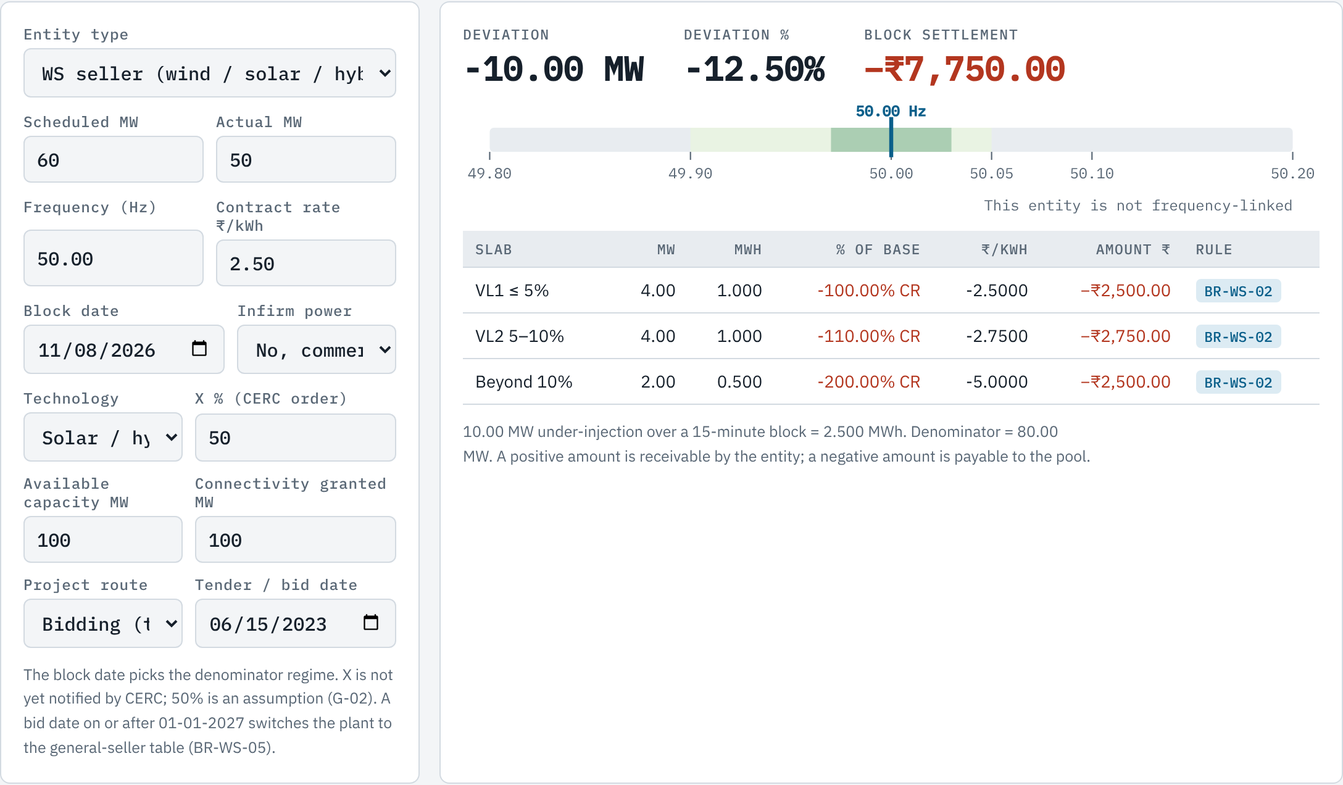
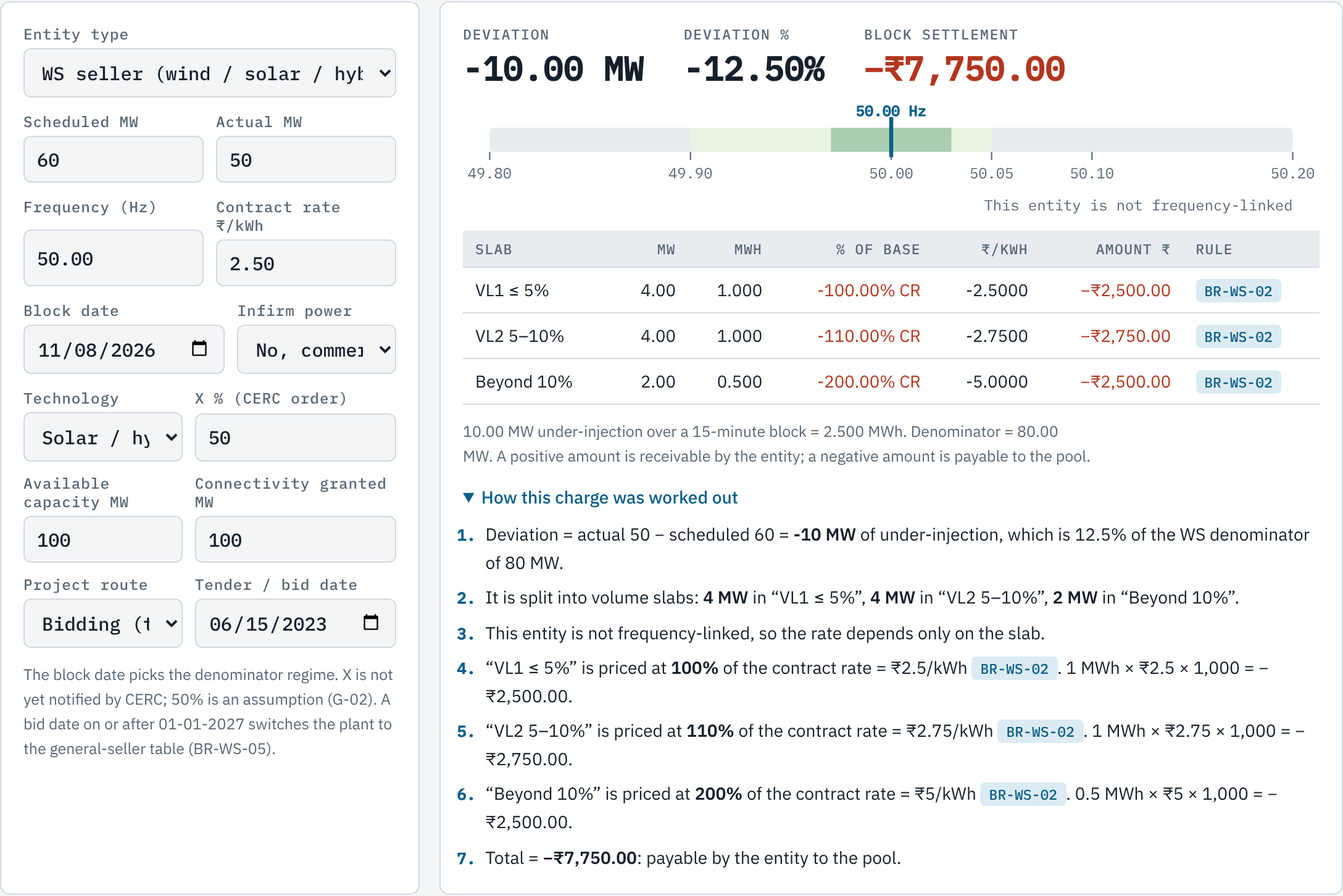
Audit and correct charts; add heatmap, penalty curve and walkthrough
Fixes found by auditing every chart against the regulation:
- General-seller caption gave wrong rates at 49.92 Hz (now 135.75%
  and 150%; 150%/200% apply below 49.90 Hz)
- Frequency steps were drawn 0.01 Hz late; they now change halfway
  between defined points, so the band edge lines up
- Infirm matrix 'seller rules' cell applied only to general sellers
- Parity chart now states it relies on assumption G-13
- Slab-bar segments now sit exactly on the axis ticks

New explanations:
- Cost heatmap of frequency against deviation size (seller and buyer)
- Penalty curve showing loss against a perfect forecast
- Plain-English walkthrough of each calculator result
- tests/rates.test.js: 35 chart rate points checked against the
  regulation tables

Claude-Session: https://claude.ai/code/session_019ffqfbmXFv7PNpHuiTUzXU

diff --git a/index.html b/index.html
@@ -140,8 +140,8 @@ details.tableview table{margin-top:10px}
 @media (max-width:520px){.srow{grid-template-columns:1fr;gap:4px}}
 .slabel{font-size:.82rem;line-height:1.3}
 .slabel small{display:block;color:var(--muted);font:400 .72rem var(--f-mono)}
-.strack{position:relative;display:flex;gap:2px;height:30px}
-.seg{display:flex;align-items:center;justify-content:center;font:600 .72rem var(--f-mono);border-radius:2px;min-width:0;overflow:hidden;white-space:nowrap}
+.strack{position:relative;display:block;height:30px}
+.seg{position:absolute;top:0;bottom:0;display:flex;align-items:center;justify-content:center;font:600 .72rem var(--f-mono);border-radius:2px;min-width:0;overflow:hidden;white-space:nowrap}
 .seg:first-child{border-radius:4px 2px 2px 4px}.seg:last-child{border-radius:2px 4px 4px 2px}
 .seg.q0{background:transparent;border:1px dashed var(--line);color:var(--muted)}
 .seg.q1{background:var(--q1);color:var(--q-lo)}.seg.q2{background:var(--q2);color:var(--q-lo)}.seg.q3{background:var(--q3);color:var(--q-lo)}
@@ -197,6 +197,21 @@ table.matrix th{text-transform:none;letter-spacing:0;font-size:.78rem}
 .field.check input{width:auto}
 #oNotes{margin:0;padding-left:1.1em;display:grid;gap:4px;font-size:.84rem}
 #oNotes:empty{display:none}
+
+
+/* ---- heatmap, walkthrough ---- */
+.seg-ctl{display:flex;flex-wrap:wrap;gap:6px}
+.seg-ctl button{background:transparent;color:var(--accent);border:1px solid var(--line);font-weight:500}
+.seg-ctl button.on{background:var(--accent-soft);border-color:var(--accent);color:var(--ink)}
+#vHeat svg{min-width:520px}
+#vPenalty svg{min-width:560px}
+.hm-legend{display:flex;align-items:center;gap:10px;font:500 .74rem var(--f-mono);color:var(--muted)}
+.hm-legend{flex-wrap:wrap}
+.hm-key{display:inline-flex;align-items:center;gap:5px}
+.hm-key i{width:14px;height:12px;border-radius:2px;display:inline-block;border:1px solid var(--line)}
+details.walk summary{cursor:pointer;color:var(--accent);font-weight:500;font-size:.88rem}
+ol.steps{margin:8px 0 0;padding-left:1.3em;display:grid;gap:6px;font-size:.88rem}
+ol.steps li::marker{font:600 .8rem var(--f-mono);color:var(--accent)}
 
 @media (prefers-reduced-motion:reduce){*{scroll-behavior:auto!important;transition:none!important}}
 </style>
@@ -304,7 +319,7 @@ table.matrix th{text-transform:none;letter-spacing:0;font-size:.78rem}
       <p id="pOut"></p>
     </div>
     <div class="panel"><h3>What parity does to the same shortfall</h3>
-      <p class="hint">A solar plant, 100 MW available, scheduled at 60 MW, generating 50 MW. The line shows the average rate on the 10 MW shortfall as a % of contract rate, under each table.</p>
+      <p class="hint">A solar plant, 100 MW available, scheduled at 60 MW, generating 50 MW. The line shows the average rate on the 10 MW shortfall as a % of contract rate, under each table. The parity line uses working assumption G-13: limit min(10% of schedule, 100 MW), priced at contract rate.</p>
       <div class="fchart" id="vParity"></div>
     </div>
   </div>
@@ -352,12 +367,18 @@ table.matrix th{text-transform:none;letter-spacing:0;font-size:.78rem}
     <div class="panel"><h3>Over-injection <span class="hint">seller receives, % of RR</span></h3><div class="fchart" id="vGsOver"></div></div>
     <div class="panel"><h3>Under-injection <span class="hint">seller pays, % of RR</span></h3><div class="fchart" id="vGsUnder"></div></div>
   </div>
-  <p class="hint">Read it like this: a generator that falls short at 49.92 Hz, when the grid needs power most, pays up to 150% of RR inside the limit and 200% beyond it. Extra power at 50.10 Hz or above is worse than worthless: the seller pays 10% of RR for it.</p>
+  <p class="hint">Read it like this: a generator that falls short at 49.92 Hz, when the grid needs power, pays 135.75% of RR inside the limit and 150% beyond it. Below 49.90 Hz that rises to 150% and 200%. Extra power at 50.10 Hz or above is worse than worthless: the seller pays 10% of RR for it.</p>
 
   <div class="sub-head"><h3>Buyer: rate against frequency, by volume slab</h3><p class="hint">VL1, VL2 and VL3 are the volume slabs. Their MW sizes depend on the buyer category (chart further down).</p></div>
   <div class="grid2">
     <div class="panel"><h3>Under-drawal <span class="hint">buyer receives, % of NR</span></h3><div class="fchart" id="vByUnder"></div></div>
     <div class="panel"><h3>Over-drawal <span class="hint">buyer pays, % of NR</span></h3><div class="fchart" id="vByOver"></div></div>
+  </div>
+  <div class="panel"><h3>Both rules at once: volume and frequency together <span class="tag">Reg 8(1), 8(7)</span></h3>
+    <p class="hint">Each cell is the average rate on the whole deviation, combining the volume slabs and the frequency rule. Darker cells cost more. Hover or tap a cell for the numbers. The dashed lines are the slab limits; the outlined columns are the frequency band.</p>
+    <div class="seg-ctl" role="group" aria-label="Choose entity"><button type="button" class="on" data-hm="gs" aria-pressed="true">General seller under-injecting (schedule 500 MW)</button><button type="button" data-hm="buyer" aria-pressed="false">Regular buyer over-drawing (schedule 1,500 MW)</button></div>
+    <div class="fchart" id="vHeat"></div>
+    <div class="hm-legend"></div>
   </div>
   <details class="tableview"><summary>Show the four frequency charts as a table</summary><div class="scroll"><table id="vFreqTable"></table></div></details>
 
@@ -367,6 +388,12 @@ table.matrix th{text-transform:none;letter-spacing:0;font-size:.78rem}
     <div class="panel"><h3>Over-injection <span class="hint">seller receives</span></h3><div class="slabs" id="vSlabOver"></div></div>
   </div>
   <p class="hint">RoR slabs are also capped at 150 MW and 200 MW, whichever is lower. The MSW slab has no MW cap (gap G-09). Under-injection beyond the last WS slab costs 200% of CR, while over-injection beyond it earns nothing.</p>
+
+  <div class="panel"><h3>The penalty curve: what a forecast error really costs <span class="tag">Reg 8(4), 8(4A)</span></h3>
+    <p class="hint">A 100 MW solar plant scheduled at 60 MW, contract rate ₹2.50/kWh. The plant is paid for its schedule, so the fair test is the loss against a perfect forecast: revenue it would have earned had it scheduled exactly what it generated. Left of zero it generated less than scheduled; right of zero, more.</p>
+    <div class="fchart" id="vPenalty"></div>
+    <p class="hint">Under the WS table the loss is the same on both sides: nothing inside VL1, 10% of the energy's value in VL2, and its full value beyond. Under parity (bids dated 2027 onwards, assumption G-13) the shape depends on frequency. At 50.00 Hz a shortfall costs nothing extra, but surplus beyond the limit is lost. At 49.85 Hz a shortfall becomes the expensive side. A parity plant should schedule more cautiously when low frequency is expected, such as the evening peak.</p>
+  </div>
 
   <div class="grid2">
     <div class="panel"><h3>Why 01-04-2026 matters for WS sellers <span class="tag">BR-DV-02 · DV-03</span></h3>
@@ -458,6 +485,7 @@ table.matrix th{text-transform:none;letter-spacing:0;font-size:.78rem}
       <div class="scroll"><table><thead><tr><th>Slab</th><th class="r">MW</th><th class="r">MWh</th><th class="r">% of base</th><th class="r">₹/kWh</th><th class="r">Amount ₹</th><th>Rule</th></tr></thead><tbody id="oSlabs"></tbody></table></div>
       <p class="hint" id="oNote"></p>
       <ul id="oNotes"></ul>
+      <details class="walk" open><summary>How this charge was worked out</summary><ol id="oSteps" class="steps"></ol></details>
     </div>
   </div>
   <div class="grid2">
@@ -971,6 +999,29 @@ function renderCalc() {
   const qty = i.infirm === 'pretrial' ? Math.max(0, i.A) : Math.abs(r.dev);
   $('oNote').textContent = `${qty.toFixed(2)} MW ${unitWord} over a 15-minute block = ${(qty * 0.25).toFixed(3)} MWh.` + (i.type === 'ws' && r.pricedAs === 'ws' ? ` Denominator = ${r.denom.toFixed(2)} MW.` : '') + ' A positive amount is receivable by the entity; a negative amount is payable to the pool.';
   $('oNotes').innerHTML = (r.notes || []).map(n => `<li>${esc(n)}</li>`).join('');
+  $('oSteps').innerHTML = explain(i, r).map(s => `<li>${s}</li>`).join('');
+}
+function explain(i, r) {
+  const n2 = v => v.toLocaleString('en-IN', { maximumFractionDigits: 2 });
+  const basisName = { RR: 'reference rate', CR: 'contract rate', NR: 'normal rate', ECR: 'energy charge rate' }[r.basis];
+  if (i.infirm === 'pretrial') {
+    const s = r.slabs[0];
+    return [`The unit is still before its trial run, so this is <b>infirm power</b>, not a deviation. It injected ${n2(Math.max(0, i.A))} MW for 15 minutes = <b>${n2(s.mwh)} MWh</b>.`,
+      `The rule for this plant type on ${i.date.split('-').reverse().join('-')} is <span class="tag">${s.rule}</span>: ${s.unit ? `paid at NR (₹${n2(i.rate)}/kWh), capped, so <b>₹${s.unit.toFixed(2)}/kWh</b>` : '<b>zero</b>'}.`,
+      `${n2(s.mwh)} MWh × ₹${s.unit.toFixed(2)}/kWh × 1,000 = <b>${inr(r.total, 2)}</b>${r.total > 0 ? ', receivable by the plant' : ''}.`];
+  }
+  const buyer = i.type === 'buyer', over = r.dir === 'over';
+  const word = buyer ? (over ? 'over-drawal' : 'under-drawal') : (over ? 'over-injection' : 'under-injection');
+  const linked = ['gs', 'ess', 'buyer'].includes(r.pricedAs);
+  const steps = [];
+  const den = r.pricedAs === 'ws' ? `the WS denominator of ${n2(r.denom)} MW` : `the schedule of ${n2(i.S)} MW`;
+  steps.push(`Deviation = actual ${n2(i.A)} − scheduled ${n2(i.S)} = <b>${r.dev > 0 ? '+' : ''}${n2(r.dev)} MW</b> of ${word}` + (r.devPct != null && isFinite(r.devPct) ? `, which is ${n2(Math.abs(r.devPct))}% of ${den}.` : '.'));
+  const used = r.slabs.filter(s => s.mw > 0);
+  steps.push(used.length ? `It is split into volume slabs: ${used.map(s => `<b>${n2(s.mw)} MW</b> in “${esc(s.label)}”`).join(', ')}.` : 'There is no deviation, so nothing is charged.');
+  steps.push(linked ? `Frequency is <b>${i.f.toFixed(2)} Hz</b>, ${inBand(i.f) ? 'inside' : 'outside'} the 49.90–50.05 Hz band. For this entity it sets the rate in each slab.` : 'This entity is not frequency-linked, so the rate depends only on the slab.');
+  used.forEach(s => steps.push(`“${esc(s.label)}” is priced at <b>${n2(Math.abs(s.pct))}%</b> of the ${basisName} = ₹${n2(Math.abs(s.unit))}/kWh <span class="tag">${s.rule}</span>. ${n2(s.mwh)} MWh × ₹${n2(Math.abs(s.unit))} × 1,000 = ${inr(s.amt, 2)}.`));
+  if (used.length) steps.push(`Total = <b>${inr(r.total, 2)}</b>: ${r.total > 0 ? 'receivable by the entity from the pool' : r.total < 0 ? 'payable by the entity to the pool' : 'nothing changes hands'}.`);
+  return steps;
 }
 ['cType', 'cInf', 'cRoute', 'cPsp'].forEach(id => $(id).addEventListener('change', () => syncCalcUI(id === 'cType')));
 ['cS', 'cA', 'cF', 'cR', 'cDate', 'cTech', 'cAvc', 'cConn', 'cX', 'cKey', 'cKind', 'cCat'].forEach(id => $(id).addEventListener('input', renderCalc));
@@ -1118,7 +1169,8 @@ function freqChart(id, series) {
   s += `<text x="${L - 6}" y="${y(-12) + 4}" text-anchor="end" style="font-size:9px">pays</text>`;
   [49.80, 49.90, 50.00, 50.05, 50.10, 50.20].forEach(f => { s += `<line x1="${x(f)}" x2="${x(f)}" y1="${H - B}" y2="${H - B + 4}" style="stroke:var(--muted)"/><text x="${x(f)}" y="${H - B + 16}" text-anchor="middle">${f.toFixed(2)}</text>`; });
   s += `<text x="${(L + W - R) / 2}" y="${H - 2}" text-anchor="middle">Frequency (Hz)</text>`;
-  const path = d => d.map((v, i) => i ? `H${x(FX[i]).toFixed(1)}V${y(v).toFixed(1)}` : `M${x(FX[0]).toFixed(1)},${y(v).toFixed(1)}`).join('');
+  // Rates are defined at 0.01 Hz points, so each step changes halfway between two points.
+  const path = d => d.map((v, i) => i ? `H${((x(FX[i - 1]) + x(FX[i])) / 2).toFixed(1)}V${y(v).toFixed(1)}` : `M${x(FX[0]).toFixed(1)},${y(v).toFixed(1)}`).join('') + `H${x(FX[FX.length - 1]).toFixed(1)}`;
   data.forEach((d, k) => { const p = path(d); s += `<path d="${p}" style="fill:none;stroke:var(--surface);stroke-width:5;stroke-linejoin:round"/><path d="${p}" style="fill:none;stroke:${SER[k]};stroke-width:2;stroke-linejoin:round"/>`; });
   // direct labels at the right end, nudged apart
   const ends = data.map((d, k) => ({ k, y: y(d[d.length - 1]) })).sort((a, b) => a.y - b.y);
@@ -1172,7 +1224,7 @@ function qClass(v) { const a = Math.abs(v); return a === 0 ? 'q0' : a < 95 ? 'q2
 function slabBars(id, rows, max, unit, ticks) {
   const html = rows.map(r => {
     let prev = 0; const segs = r.segs.map(sg => { const to = Math.min(sg.to, max); const w = (to - prev) / max * 100; const from = prev; prev = to;
-      return `<span class="seg ${sg.cls || qClass(sg.val)}" style="flex:0 0 calc(${w}% - 2px)" title="${from}–${sg.to >= max ? max + '+' : to}${unit}: ${sg.text}">${sg.text}</span>`; }).join('');
+      return `<span class="seg ${sg.cls || qClass(sg.val)}" style="left:${from / max * 100}%;width:calc(${w}% - ${to >= max ? 0 : 2}px)" title="${from}–${sg.to >= max ? max + '+' : to}${unit}: ${sg.text}">${sg.text}</span>`; }).join('');
     const mark = r.mark != null ? `<span class="smark${r.mark / max > .6 ? ' right' : ''}" style="left:${r.mark / max * 100}%"><span>${r.markLabel}</span></span>` : '';
     return `<div class="srow"><span class="slabel">${r.label}${r.sub ? `<small>${r.sub}</small>` : ''}</span><span class="strack">${segs}${mark}</span></div>`;
   }).join('');
@@ -1248,7 +1300,7 @@ function renderNRBars() {
 
 (function infirmMatrix() {
   const cols = ['Principal<br><span class="hint">to 22-12-2024</span>', 'A1<br><span class="hint">from 23-12-2024</span>', 'A2<br><span class="hint">from 01-07-2025</span>', 'A3<br><span class="hint">from 31-08-2026</span>'];
-  const Z = ['z', 'Zero'], T = ['p', 'Paid at NR, max ₹2.86/kWh'], E = ['p', 'Paid at NR, max ₹2.00/kWh'], S = ['s', 'Seller rules'], S10 = ['s', 'Seller rules (pays 10% RR at ≥ 50.10 Hz)'];
+  const Z = ['z', 'Zero'], T = ['p', 'Paid at NR, max ₹2.86/kWh'], E = ['p', 'Paid at NR, max ₹2.00/kWh'], S = ['s', 'Seller rules'], S10 = ['s', 'Seller rules (general seller pays 10% RR at ≥ 50.10 Hz; WS seller paid CR)'];
   const rows = [
     ['Thermal unit, first sync to trial run', [Z, Z, T, T]],
     ['Standalone ESS, first sync to trial run', [Z, Z, Z, E]],
@@ -1279,6 +1331,104 @@ function renderParity() {
     { name: 'WS table', short: 'WS', fn: f => -settle({ ...base, f, route: 'bid', keyDate: '2026-12-01' }).total / energy * 100 },
     { name: 'General-seller table (parity)', short: 'Parity', fn: f => -settle({ ...base, f, route: 'bid', keyDate: '2027-02-01' }).total / energy * 100 },
   ]);
+})();
+
+
+/* ---------- Cost heatmap ---------- */
+// Discrete bands read more reliably than a continuous ramp: [upper bound %, colour token, legend label]
+const HM_BINS = [[0, 'sunk', '0% or receives'], [85, 'q1', 'up to 85%'], [100, 'q2', '85–100%'], [125, 'q3', '100–125%'], [150, 'q4', '125–150%'], [175, 'q5', '150–175%'], [1e9, 'q6', 'above 175%']];
+(function hmLegend() { const el = document.querySelector('.hm-legend'); el.innerHTML = '<span>Average rate:</span>' + HM_BINS.map(([, c, l]) => `<span class="hm-key"><i style="background:var(--${c})"></i>${l}</span>`).join(''); })();
+function heatmap(mode) {
+  const host = $('vHeat'); const W = 660, H = 340, L = 64, R = 12, T = 10, B = 46;
+  const mws = []; for (let m = 5; m <= 150; m += 5) mws.push(m);
+  const cw = (W - L - R) / FX.length, ch = (H - T - B) / mws.length;
+  const run = (f, m) => mode === 'gs' ? settle({ type: 'gs', S: 500, A: 500 - m, f, rate: 1 }) : settle({ type: 'buyer', S: 1500, A: 1500 + m, f, rate: 1, buyerCat: 'regular' });
+  const avg = r => -r.total / (Math.abs(r.dev) * 250) * 100; // % of base rate across the whole deviation
+  const fill = v => `var(--${HM_BINS.find(bn => v <= bn[0] + 1e-9)[1]})`;
+  const grid = mws.map(m => FX.map(f => { const r = run(f, m); return { r, v: avg(r) }; }));
+  const cx = i => L + i * cw, ry = k => T + (mws.length - 1 - k) * ch;
+  let s = `<svg viewBox="0 0 ${W} ${H}" tabindex="0" role="img" aria-label="Average deviation rate by frequency and deviation size">`;
+  grid.forEach((row, k) => row.forEach((c, i) => { s += `<rect x="${cx(i).toFixed(2)}" y="${ry(k).toFixed(2)}" width="${(cw + .4).toFixed(2)}" height="${(ch + .4).toFixed(2)}" style="fill:${fill(c.v)}"/>`; }));
+  const bx0 = cx(FX.indexOf(49.90)), bx1 = cx(FX.indexOf(50.05) + 1);
+  s += `<rect x="${bx0}" y="${T}" width="${bx1 - bx0}" height="${H - T - B}" style="fill:none;stroke:var(--ink);stroke-width:1.5"/>`;
+  const limits = mode === 'gs' ? [[50, 'limit 50 MW']] : [[100, 'VL1 | VL2'], [200, 'VL2 | VL3']];
+  limits.filter(([m]) => m <= 150).forEach(([m, lab]) => { const y = ry(mws.indexOf(m)); s += `<line x1="${L}" x2="${W - R}" y1="${y}" y2="${y}" style="stroke:var(--surface);stroke-width:3"/><line x1="${L}" x2="${W - R}" y1="${y}" y2="${y}" style="stroke:var(--ink);stroke-width:1.2;stroke-dasharray:5 4"/><text x="${W - R - 4}" y="${y - 4}" text-anchor="end" style="fill:var(--ink);font-weight:600;paint-order:stroke;stroke:var(--surface);stroke-width:3px">${lab}</text>`; });
+  [49.80, 49.90, 50.00, 50.05, 50.10, 50.20].forEach(f => { const x = cx(FX.indexOf(f)) + cw / 2; s += `<line x1="${x}" x2="${x}" y1="${H - B}" y2="${H - B + 4}" style="stroke:var(--muted)"/><text x="${x}" y="${H - B + 16}" text-anchor="middle">${f.toFixed(2)}</text>`; });
+  s += `<text x="${(L + W - R) / 2}" y="${H - 6}" text-anchor="middle">Frequency (Hz)</text>`;
+  [25, 50, 75, 100, 125, 150].forEach(m => { const k = mws.indexOf(m); s += `<text x="${L - 6}" y="${ry(k) + ch / 2 + 4}" text-anchor="end">${m} MW</text>`; });
+  s += `<text x="12" y="${(T + H - B) / 2}" transform="rotate(-90 12 ${(T + H - B) / 2})" text-anchor="middle">${mode === 'gs' ? 'Shortfall' : 'Over-drawal'}</text>`;
+  s += `<rect class="hcur" width="${cw}" height="${ch}" style="fill:none;stroke:var(--ink);stroke-width:2;display:none"/></svg>`;
+  host.innerHTML = s + '<div class="tip" hidden></div>';
+  const svg = host.querySelector('svg'), tip = host.querySelector('.tip'), cur = svg.querySelector('.hcur');
+  let pos = [FX.indexOf(49.95), mws.indexOf(80)];
+  function show(i, k) {
+    i = Math.max(0, Math.min(FX.length - 1, i)); k = Math.max(0, Math.min(mws.length - 1, k)); pos = [i, k];
+    const c = grid[k][i], used = c.r.slabs.filter(z => z.mw > 0);
+    cur.setAttribute('x', cx(i)); cur.setAttribute('y', ry(k)); cur.style.display = '';
+    tip.innerHTML = `<b>${FX[i].toFixed(2)} Hz · ${mws[k]} MW ${mode === 'gs' ? 'short' : 'over'}</b>Average: ${c.v.toFixed(1)}% of ${mode === 'gs' ? 'RR' : 'NR'}` + used.map(z => `<div>${z.mw} MW at ${Math.abs(z.pct).toFixed(2)}%${z.pct > 0 ? ' (receives)' : ''}</div>`).join('');
+    tip.hidden = false;
+    const r = svg.getBoundingClientRect(), hr = host.getBoundingClientRect(), sc = r.width / W;
+    let left = r.left - hr.left + host.scrollLeft + (cx(i) + cw) * sc + 10; if (left + tip.offsetWidth > host.scrollWidth) left -= tip.offsetWidth + cw * sc + 20;
+    tip.style.left = left + 'px'; tip.style.top = Math.max(0, r.top - hr.top + ry(k) * sc - 20) + 'px';
+  }
+  const hide = () => { tip.hidden = true; cur.style.display = 'none'; };
+  svg.addEventListener('pointermove', e => { const r = svg.getBoundingClientRect(); const vx = (e.clientX - r.left) / r.width * W, vy = (e.clientY - r.top) / r.height * H;
+    if (vx < L || vx > W - R || vy < T || vy > H - B) return hide(); show(Math.floor((vx - L) / cw), mws.length - 1 - Math.floor((vy - T) / ch)); });
+  svg.addEventListener('pointerleave', hide); svg.addEventListener('blur', hide); svg.addEventListener('focus', () => show(...pos));
+  svg.addEventListener('keydown', e => { const d = { ArrowLeft: [-1, 0], ArrowRight: [1, 0], ArrowUp: [0, 1], ArrowDown: [0, -1] }[e.key]; if (d) { e.preventDefault(); show(pos[0] + d[0], pos[1] + d[1]); } if (e.key === 'Escape') hide(); });
+}
+document.querySelectorAll('[data-hm]').forEach(btn => btn.addEventListener('click', () => {
+  document.querySelectorAll('[data-hm]').forEach(x => { x.classList.toggle('on', x === btn); x.setAttribute('aria-pressed', x === btn); });
+  heatmap(btn.dataset.hm);
+}));
+heatmap('gs');
+
+/* ---------- Penalty curve ---------- */
+function lineChart(id, xs, series, o) {
+  const host = $(id); const W = 760, H = 300, L = 66, R = 96, T = 14, B = 40;
+  const data = series.map(s => xs.map(s.fn));
+  const all = data.flat(); let lo = Math.min(0, ...all), hi = Math.max(0, ...all);
+  const step = o.yStep; lo = Math.floor(lo / step) * step; hi = Math.ceil(hi / step) * step || step;
+  const x = v => L + (v - xs[0]) / (xs[xs.length - 1] - xs[0]) * (W - L - R), y = v => T + (hi - v) / (hi - lo) * (H - T - B);
+  let s = `<svg viewBox="0 0 ${W} ${H}" tabindex="0" role="img" aria-label="${o.label}">`;
+  for (let v = lo; v <= hi + 1e-9; v += step) s += `<line x1="${L}" x2="${W - R}" y1="${y(v)}" y2="${y(v)}" style="stroke:var(--line);stroke-width:${v === 0 ? 1.4 : .6}"/><text x="${L - 6}" y="${y(v) + 4}" text-anchor="end">${o.yFmt(v)}</text>`;
+  o.xTicks.forEach(v => { s += `<line x1="${x(v)}" x2="${x(v)}" y1="${H - B}" y2="${H - B + 4}" style="stroke:var(--muted)"/><text x="${x(v)}" y="${H - B + 16}" text-anchor="middle">${o.xFmt(v)}</text>`; });
+  s += `<line x1="${x(0)}" x2="${x(0)}" y1="${T}" y2="${H - B}" style="stroke:var(--muted);stroke-dasharray:3 3"/>`;
+  s += `<text x="${x(xs[0]) + 4}" y="${T + 12}">← generated less</text><text x="${W - R - 4}" y="${T + 12}" text-anchor="end">generated more →</text>`;
+  s += `<text x="${(L + W - R) / 2}" y="${H - 4}" text-anchor="middle">${o.xLabel}</text>`;
+  data.forEach((d, k) => { const p = d.map((v, i) => `${i ? 'L' : 'M'}${x(xs[i]).toFixed(1)},${y(v).toFixed(1)}`).join(''); s += `<path d="${p}" style="fill:none;stroke:var(--surface);stroke-width:5;stroke-linejoin:round"/><path d="${p}" style="fill:none;stroke:${SER[k]};stroke-width:2;stroke-linejoin:round"/>`; });
+  const ends = data.map((d, k) => ({ k, y: y(d[d.length - 1]) })).sort((a, b) => a.y - b.y);
+  for (let i = 1; i < ends.length; i++) if (ends[i].y - ends[i - 1].y < 13) ends[i].y = ends[i - 1].y + 13;
+  ends.forEach(e => { s += `<line x1="${W - R + 2}" x2="${W - R + 10}" y1="${e.y}" y2="${e.y}" style="stroke:${SER[e.k]};stroke-width:2"/><text x="${W - R + 13}" y="${e.y + 4}" style="fill:var(--ink)">${series[e.k].short}</text>`; });
+  s += `<g class="xh" style="display:none"><line y1="${T}" y2="${H - B}" style="stroke:var(--ink);stroke-dasharray:3 3"/>${data.map((_, k) => `<circle r="4.5" style="fill:${SER[k]};stroke:var(--surface);stroke-width:2"/>`).join('')}</g></svg>`;
+  host.innerHTML = `<div class="vlegend">${series.map((z, k) => `<span><i style="background:${SER[k]}"></i>${z.name}</span>`).join('')}</div>` + s + '<div class="tip" hidden></div>';
+  const svg = host.querySelector('svg'), xh = svg.querySelector('.xh'), tip = host.querySelector('.tip');
+  let cur = xs.indexOf(0);
+  function show(i) {
+    cur = Math.max(0, Math.min(xs.length - 1, i)); const px = x(xs[cur]);
+    xh.style.display = ''; const ln = xh.querySelector('line'); ln.setAttribute('x1', px); ln.setAttribute('x2', px);
+    xh.querySelectorAll('circle').forEach((c, k) => { c.setAttribute('cx', px); c.setAttribute('cy', y(data[k][cur])); });
+    tip.innerHTML = `<b>${o.xFmt(xs[cur])}</b>` + series.map((z, k) => `<div><i style="background:${SER[k]}"></i>${z.short}: ${o.tipFmt(data[k][cur])}</div>`).join(''); tip.hidden = false;
+    const r = svg.getBoundingClientRect(), hr = host.getBoundingClientRect(), sc = r.width / W;
+    let left = r.left - hr.left + host.scrollLeft + px * sc + 12; if (left + tip.offsetWidth > host.scrollWidth) left -= tip.offsetWidth + 24;
+    tip.style.left = left + 'px'; tip.style.top = (r.top - hr.top + 30) + 'px';
+  }
+  const hide = () => { xh.style.display = 'none'; tip.hidden = true; };
+  svg.addEventListener('pointermove', e => { const r = svg.getBoundingClientRect(); const vx = (e.clientX - r.left) / r.width * W; show(Math.round((vx - L) / (W - L - R) * (xs.length - 1))); });
+  svg.addEventListener('pointerleave', hide); svg.addEventListener('blur', hide); svg.addEventListener('focus', () => show(cur));
+  svg.addEventListener('keydown', e => { if (e.key === 'ArrowRight' || e.key === 'ArrowLeft') { e.preventDefault(); show(cur + (e.key === 'ArrowRight' ? 1 : -1)); } if (e.key === 'Escape') hide(); });
+}
+(function penalty() {
+  const xs = []; for (let v = -20; v <= 20.001; v += 0.5) xs.push(Math.round(v * 10) / 10);
+  const base = { type: 'ws', S: 60, rate: 2.5, wsTech: 'solar', avc: 100, X: 50 };
+  const loss = r => r.total - r.dev * 0.25 * 1000 * 2.5; // vs being paid for exactly what was generated
+  lineChart('vPenalty', xs, [
+    { name: 'WS table (from 01-04-2026)', short: 'WS', fn: d => loss(settle({ ...base, A: 60 + d, f: 50.00, date: '2026-11-08' })) },
+    { name: 'Parity at 50.00 Hz', short: 'Parity 50.00', fn: d => loss(settle({ ...base, A: 60 + d, f: 50.00, route: 'bid', keyDate: '2027-02-01', date: '2027-06-01' })) },
+    { name: 'Parity at 49.85 Hz', short: 'Parity 49.85', fn: d => loss(settle({ ...base, A: 60 + d, f: 49.85, route: 'bid', keyDate: '2027-02-01', date: '2027-06-01' })) },
+  ], { label: 'Loss against a perfect forecast by deviation size', yStep: 2000, xTicks: [-20, -15, -10, -5, 0, 5, 10, 15, 20],
+    xFmt: v => (v > 0 ? '+' : '') + v + ' MW', yFmt: v => v === 0 ? '₹0' : (v < 0 ? '−' : '+') + '₹' + Math.abs(v / 1000) + 'k', tipFmt: v => inr(v),
+    xLabel: 'Actual minus schedule, MW (one 15-minute block)' });
 })();
 
 /* ---------- boot ---------- */

diff --git a/tests/rates.test.js b/tests/rates.test.js
@@ -1,0 +1,22 @@
+// Chart data audit: rate points read directly from the Reg 8(1) and 8(7) tables, checked against the
+// engine functions that draw the frequency charts and heatmap. Run with: node tests/rates.test.js
+const E=require('../src/engine.js');
+const g=(d,k,f)=>E.gsRate(d,k,f).pct, b=(d,k,f)=>E.buyerRate(d,k,f).pct;
+const C=[
+ // [label, got, expected-from-regulation]
+ ['GS over within 50.00', g('over',0,50.00), 100], ['GS over within 50.04', g('over',0,50.04), 75], ['GS over within 50.05', g('over',0,50.05), 50],
+ ['GS over within 50.07', g('over',0,50.07), 0], ['GS over within 50.10', g('over',0,50.10), -10], ['GS over within 49.85', g('over',0,49.85), 115],
+ ['GS over within 49.90', g('over',0,49.90), 115], ['GS over beyond 50.00', g('over',1,50.00), 0], ['GS over beyond 50.10', g('over',1,50.10), -10],
+ ['GS under within 50.05', -g('under',0,50.05), 85], ['GS under within 50.08', -g('under',0,50.08), 85], ['GS under within 49.90', -g('under',0,49.90), 150],
+ ['GS under within 49.92', -g('under',0,49.92), 135.75], ['GS under within 49.85', -g('under',0,49.85), 150],
+ ['GS under beyond 50.00', -g('under',1,50.00), 100], ['GS under beyond 49.92', -g('under',1,49.92), 150], ['GS under beyond 49.89', -g('under',1,49.89), 200],
+ ['BY under VL1 50.00', b('under',0,50.00), 90], ['BY under VL1 50.05', b('under',0,50.05), 50], ['BY under VL1 49.90', b('under',0,49.90), 100],
+ ['BY under VL1 50.07', b('under',0,50.07), 0], ['BY under VL1 50.10', b('under',0,50.10), -10], ['BY under VL1 49.85', b('under',0,49.85), 100],
+ ['BY under VL2 49.85', b('under',1,49.85), 80], ['BY under VL2 50.03', b('under',1,50.03), 50], ['BY under VL3 50.00', b('under',2,50.00), 0],
+ ['BY over VL1 50.05', -b('over',0,50.05), 75], ['BY over VL1 49.90', -b('over',0,49.90), 150], ['BY over VL1 50.07', -b('over',0,50.07), 50],
+ ['BY over VL1 50.10', -b('over',0,50.10), 0], ['BY over VL2 49.95', -b('over',1,49.95), 150], ['BY over VL2 50.07', -b('over',1,50.07), 75],
+ ['BY over VL3 49.99', -b('over',2,49.99), 200], ['BY over VL3 50.05', -b('over',2,50.05), 100], ['BY over VL3 50.10', -b('over',2,50.10), 50],
+];
+let bad=0; for(const [l,got,exp] of C){ if(Math.abs(got-exp)>1e-9){bad++;console.log('MISMATCH',l,got,exp);} }
+console.log(`${C.length} rate points checked against the regulation tables, ${bad} mismatches`);
+process.exit(bad ? 1 : 0);

diff --git a/README.md b/README.md
@@ -78,6 +78,14 @@ The charts are drawn by the same functions that price the calculator, so the pic
 
 ![Volume slabs](docs/images/rules-slabs.png)
 
+**Both rules at once.** A heatmap of frequency against size of deviation. Each cell is the average rate on the whole deviation, so the slab limit shows as a cliff and the frequency rules as a staircase. A toggle switches between a general seller's shortfall and a buyer's over-drawal.
+
+![Cost heatmap](docs/images/rules-heatmap.png)
+
+**The penalty curve.** What a forecast error really costs, measured against a perfect forecast. Under the WS table the loss is symmetric: nothing in VL1, 10% of the energy's value in VL2, its full value beyond. Under parity it depends on frequency: at 50.00 Hz only surplus is penalised, while at 49.85 Hz a shortfall is the expensive side.
+
+![Penalty curve](docs/images/rules-penalty-curve.png)
+
 The section also covers:
 - how the 01-04-2026 denominator change raises the cost of one example block from ₹6,250 to ₹7,750
 - buyer volume limits by category
@@ -95,6 +103,10 @@ The section also covers:
 
 ![Calculator](docs/images/calculator.png)
 
+Each result comes with a plain-English walkthrough: deviation, slab split, frequency position, rate per slab, and total.
+
+![Calculator walkthrough](docs/images/calculator-walkthrough.png)
+
 **Day simulator.** Prices 96 blocks and turns the result into product insights. On the sample day, 10% of blocks carry most of the cost, which argues for spending forecasting effort on volatile periods.
 
 ![Day simulator](docs/images/day-simulator.png)
@@ -109,6 +121,12 @@ To run the suite from the command line:
 
 ```bash
 node tests/engine.test.js
+```
+
+A second suite checks the chart data: 35 rate points read directly from the regulation's frequency tables, compared with the functions that draw the charts.
+
+```bash
+node tests/rates.test.js
 ```
 
 ## Selected findings from the clarification log
@@ -144,7 +162,7 @@ All 18 are in the live page.
 - **Gap analysis:** finding contradictions, undefined terms and edge cases before development, with recommended assumptions
 - **Process modelling:** an as-is weekly settlement cycle and a to-be audit flow
 - **Test design:** an independent test oracle and boundary cases (frequency band edges, slab limits, regime change)
-- **Data visualisation:** turning rate tables into charts that stakeholders can read
+- **Data visualisation:** turning rate tables into charts, a cost heatmap and a penalty curve that stakeholders can read, each checked against hand calculations
 - **Prototyping:** a working engine that proves the spec is complete and unambiguous
 
 ## Repository structure
@@ -152,7 +170,8 @@ All 18 are in the live page.
 ```
 index.html            Live case study and prototype (engine inlined, no dependencies)
 src/engine.js         Settlement engine: pure functions, runs in Node and the browser
-tests/engine.test.js  Hand-calculated regression suite
+tests/engine.test.js  Hand-calculated regression suite (23 cases)
+tests/rates.test.js   Chart data audit against the regulation tables (35 points)
 docs/                 Source regulation, First/Second/Third Amendments, README screenshots
 ```
 
